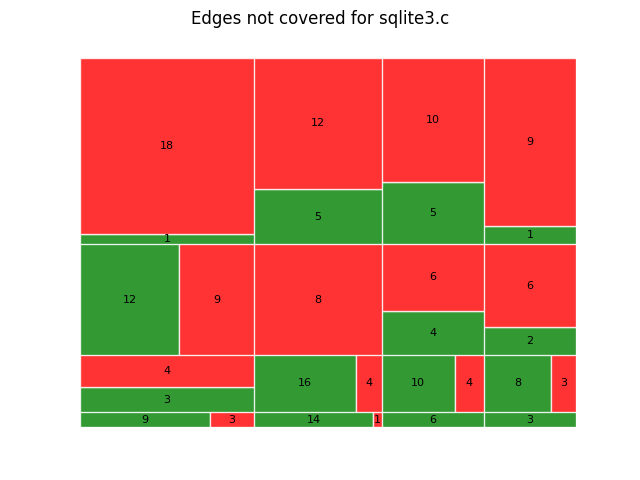
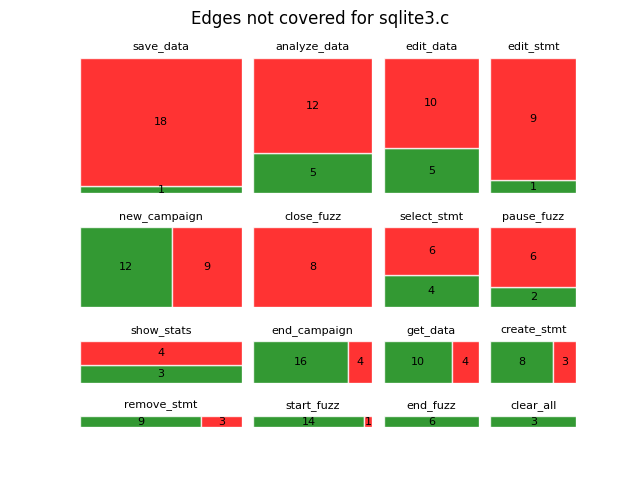
Plotly treemap for edges covered

diff --git a/treemaps/treemaps_fuzzing.py b/treemaps/treemaps_fuzzing.py
@@ -5,17 +5,18 @@ import matplotlib.pyplot as plt
 import pandas as pd
 import numpy as np
 import squarify
+import plotly.express as px
+import plotly.graph_objects as go
 
 COVERAGE_DATA_FILE = sys.argv[1]
 
-def plotSubgraph(values, label, ax, fileName):
-    # ax.set_title(label, fontsize='8')
+def plotSubgraph(values, label, ax):
+    ax.set_title(label, fontsize='8')
     is_value_covered_0 = values[0] == 0
     is_value_not_covered_0 = values[1] == 0
     values = [values[1]] if is_value_covered_0 else [values[0]] if is_value_not_covered_0 else values
     colors = ['r'] if is_value_covered_0 else ['g'] if is_value_not_covered_0 else ['g', 'r']
     squarify.plot(sizes=values, alpha=0.8, edgecolor="white", value=values, ax=ax, color=colors, text_kwargs={'fontsize':8})
-    plt.savefig(fileName)
     
 def plotPercentageGraph(values, labels, fileName):
     min_val = min(values)
@@ -52,7 +53,7 @@ for arr in edges_not_covered_split:
     height_ratios.append(np.mean(arr))
 
 fig, axs = plt.subplots(n_rows_plot, n_columns_plot, gridspec_kw={'width_ratios': width_ratios, 'height_ratios': height_ratios})
-plt.subplots_adjust(hspace=0, wspace=0)
+plt.subplots_adjust(hspace=0.5, wspace=0.1)
 
 for ax1 in axs:
     for ax2 in ax1:
@@ -64,7 +65,27 @@ for index, value_covered in enumerate(edges_covered):
         no_covered_edges_indexes.append(index)
     value_not_covered = edges_not_covered[index]
     values = [value_covered, value_not_covered]
-    plotSubgraph(values, labels[index], axs[index // n_columns_plot][index % n_columns_plot], 'edge_coverage_treemap')
+    plotSubgraph(values, labels[index], axs[index // n_columns_plot][index % n_columns_plot])
+
+plt.savefig('edge_coverage_treemap')
+
+# Plotly treemap
+df_covered = df.copy()
+df_covered = df_covered.drop('edges_not_covered', axis=1)
+df_covered = df_covered.rename({'edges_covered': 'edges'}, axis=1)
+df_not_covered = df_covered.copy()
+df_covered['covered'] = ['Covered'] * len(df_covered)
+df_covered['color'] = ['green'] * len(df_covered)
+
+df_not_covered['edges'] = edges_not_covered
+df_not_covered['covered'] = ['Not covered'] * len(df_not_covered)
+df_covered['color'] = ['red'] * len(df_not_covered)
+df_all = pd.concat([df_covered, df_not_covered])
+
+fig = px.treemap(df_all, path=['file', 'function', 'edges'], values='edges', color='covered', color_discrete_map={'(?)': df_all['color']})
+fig.update_traces(root_color="lightgrey")
+fig.update_layout(margin = dict(t=50, l=25, r=25, b=25))
+fig.show()
 
 # Treemap 2: percentage of edges covered
 for _, num in enumerate(no_covered_edges_indexes):
@@ -89,4 +110,4 @@ plotPercentageGraph(percent_edges_covered_rounded, labels_copy, 'perc_edges_cove
 # percent_edges_not_covered = percent_edges_not_covered[percent_edges_not_covered != 0]
 # plotGraph(percent_edges_not_covered, labels, 'perc_edges_not_covered_treemap', 'Percentage of edges not covered for ' + file_name)
 
-plt.show()
+# plt.show()
